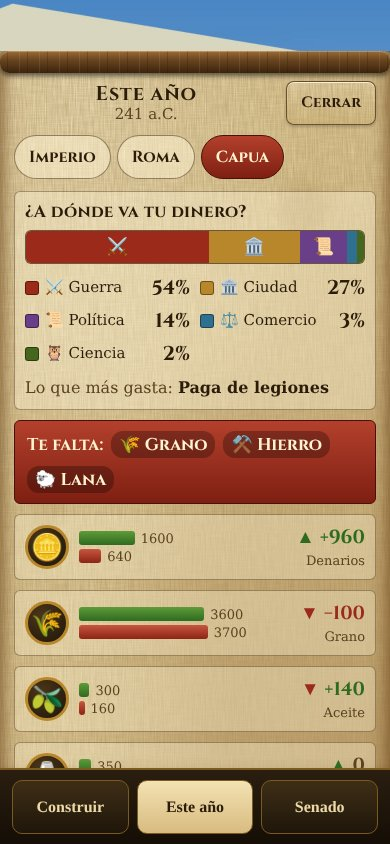
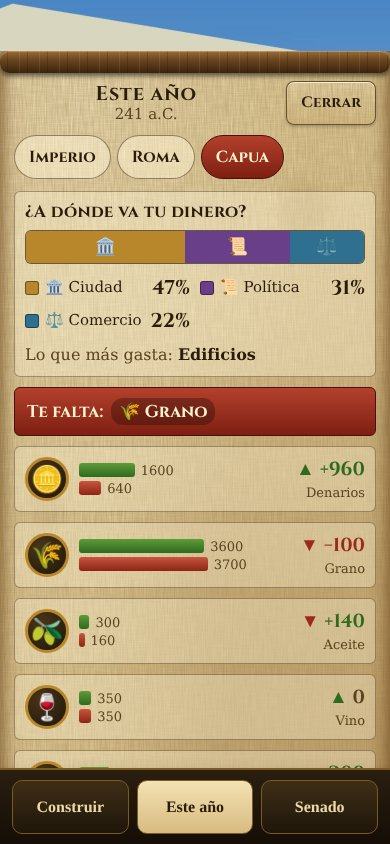
CE5: arreglos del revisor (cuentas por ciudad, faltas por ciudad, entradas raras) y parte cerrado
Claude-Session: https://claude.ai/code/session_01QiKC3AG6Vf8kY1xMEGRK9q

diff --git a/js/este-ano-ui.js b/js/este-ano-ui.js
@@ -11,9 +11,10 @@
     ciencia: ['🦉', 'Ciencia', '#46661f'], otros: ['🧺', 'Otros', '#7a6a50'], perdido: ['💨', 'Se pierde', '#555a5e'] };
   const RES = { denarios: '🪙', grano: '🌾', materiales: '🧱', hierro: '⚒', aceite: '🫒', vino: '🍷', verdura: '🥬', lana: '🐑' };
   const RNOM = { denarios: 'Denarios', grano: 'Grano', materiales: 'Materiales', hierro: 'Hierro', aceite: 'Aceite', vino: 'Vino', verdura: 'Verdura', lana: 'Lana' };
-  const icono = r => { const D = root.DATA; return (D && D.RES_ICON && D.RES_ICON[r]) || RES[r] || '📦'; };
-  const nomR = r => RNOM[r] || (r ? r[0].toUpperCase() + r.slice(1) : '');
-  const nomM = m => NOM[m] || m;
+  const hp = (o, k) => !!o && Object.prototype.hasOwnProperty.call(o, k);
+  const icono = r => { const D = root.DATA; return (D && D.RES_ICON && hp(D.RES_ICON, r) && D.RES_ICON[r]) || (hp(RES, r) && RES[r]) || '📦'; };
+  const nomR = r => (hp(RNOM, r) && RNOM[r]) || (r ? r[0].toUpperCase() + r.slice(1) : '');
+  const nomM = m => (hp(NOM, m) && NOM[m]) || m;
 
   const CSS = '' +
     '.ea-fondo{position:fixed;left:0;right:0;bottom:76px;top:auto;z-index:60;display:flex;justify-content:center;pointer-events:none;overflow:clip}' +
@@ -89,7 +90,7 @@
       '<div class="ea-apil" title="Coste"><div style="width:' + pb.toFixed(1) + '%;background:#b8862b">' + (pb > 12 ? '💰' : '') + '</div><div style="width:' + pi.toFixed(1) + '%;background:#2f6f8f">' + (pi > 12 ? '📜' : '') + '</div><div style="flex:1;background:#9b2a1a;color:#fff3d0;font:700 15px serif">' + (t.falta > 0 ? num(t.falta) : '') + '</div></div>' +
       '<div class="ea-ley"><div><i style="background:#b8862b"></i>Botín<b>' + num(t.cubre && t.cubre.botin) + '</b></div><div><i style="background:#2f6f8f"></i>Indemniz.<b>' + num(t.cubre && t.cubre.indemnizacion) + '</b></div>' +
       '<div><i style="background:#9b2a1a"></i>Falta<b>' + num(t.falta) + '</b></div><div>Coste<b>' + num(t.coste) + '</b></div></div>' +
-      (t.suspendido ? '<div class="ea-sello" style="margin-top:10px">Este año no hay tributo: lo paga el botín</div>' :
+      (!(t.coste > 0) ? '' : t.suspendido ? '<div class="ea-sello" style="margin-top:10px">Este año no hay tributo: lo paga el botín</div>' :
         '<div class="ea-acc"><button class="ea-btn" data-act="eatributo"' + (tr.posible === false ? ' disabled' : '') + '>Cobrar tributo · −' + num(Math.abs(tr.humor || 0)) + ' humor</button>' +
         '<button class="ea-btn" data-act="eacaja"' + (ca.alcanza === false ? ' disabled' : '') + '>Pagar de la caja · ' + num(ca.paga) + '</button></div>') +
       '<p class="ea-pie">Stipendium: la paga del soldado (Livio 4.59)</p></div>';
@@ -99,17 +100,19 @@
     cu = cu || {}; opts = opts || {};
     const amb = opts.ambito || 'imperio', nombres = opts.nombres || {};
     const ids = Object.keys(cu.ciudades || {}), lista = (amb === 'imperio' ? cu.imperio : (cu.ciudades || {})[amb]) || [];
-    const ad = cu.adonde || { total: 0, partes: [], caminos: [] }, cam = (ad.caminos || []).filter(c => c.pc > 0);
-    const gu = cu.guerra || { cuesta: 0, gana: 0, saldo: 0 };
+    const pcu = amb !== 'imperio' && cu.porCiudad && hp(cu.porCiudad, amb) ? cu.porCiudad[amb] : null;
+    const ad = (pcu && pcu.adonde) || cu.adonde || { total: 0, partes: [], caminos: [] }, cam = (ad.caminos || []).filter(c => c.pc > 0);
+    const faltan = amb === 'imperio' ? (cu.faltan || []) : lista.filter(f => f.saldo < 0).map(f => f.r);   // en una ciudad, lo que le falta a ella
+    const gu = (pcu && pcu.guerra) || cu.guerra || { cuesta: 0, gana: 0, saldo: 0 };
     return '<div class="ea-fondo"><div class="ea-hoja" role="dialog" aria-label="Este año"><div class="ea-asa"></div>' +
       '<div class="ea-cab"><div class="ea-tit">Este año<small>' + esc(opts.anioTexto || cu.anio || '') + '</small></div><button class="ea-btn" data-act="eacerrar">Cerrar</button></div>' +
       '<div class="ea-cuerpo"><div class="ea-fichas"><button class="ea-ficha' + (amb === 'imperio' ? ' on' : '') + '" data-act="eaambito" data-v="imperio">Imperio</button>' +
-      ids.map(id => '<button class="ea-ficha' + (amb === id ? ' on' : '') + '" data-act="eaambito" data-v="' + esc(id) + '">' + esc(nombres[id] || id) + '</button>').join('') + '</div>' +
+      ids.map(id => '<button class="ea-ficha' + (amb === id ? ' on' : '') + '" data-act="eaambito" data-v="' + esc(id) + '">' + esc(hp(nombres, id) && nombres[id] || id) + '</button>').join('') + '</div>' +
       '<div class="ea-card"><h3 class="ea-h">¿A dónde va tu dinero?</h3><div class="ea-apil">' +
-      cam.map(c => { const k = CAM[c.camino] || CAM.otros; return '<div style="width:' + c.pc + '%;background:' + k[2] + '">' + (c.pc >= 9 ? k[0] : '') + '</div>'; }).join('') + '</div>' +
-      '<div class="ea-ley">' + cam.map(c => { const k = CAM[c.camino] || CAM.otros; return '<div><i style="background:' + k[2] + '"></i>' + k[0] + ' ' + k[1] + '<b>' + Math.round(c.pc) + '%</b></div>'; }).join('') + '</div>' +
+      cam.map(c => { const k = (hp(CAM, c.camino) ? CAM[c.camino] : CAM.otros); return '<div style="width:' + c.pc + '%;background:' + k[2] + '">' + (c.pc >= 9 ? k[0] : '') + '</div>'; }).join('') + '</div>' +
+      '<div class="ea-ley">' + cam.map(c => { const k = (hp(CAM, c.camino) ? CAM[c.camino] : CAM.otros); return '<div><i style="background:' + k[2] + '"></i>' + k[0] + ' ' + k[1] + '<b>' + Math.round(c.pc) + '%</b></div>'; }).join('') + '</div>' +
       (ad.mayor ? '<p class="ea-frase">Lo que más gasta: <b>' + esc(nomM(ad.mayor.motivo || ad.mayor)) + '</b></p>' : (ad.partes && ad.partes[0] ? '<p class="ea-frase">Lo que más gasta: <b>' + esc(nomM(ad.partes[0].motivo)) + '</b></p>' : '')) + '</div>' +
-      (cu.faltan && cu.faltan.length ? '<div class="ea-faltan">Te falta: ' + cu.faltan.map(r => '<span>' + icono(r) + ' ' + esc(nomR(r)) + '</span>').join('') + '</div>' : '') +
+      (faltan.length ? '<div class="ea-faltan">Te falta: ' + faltan.map(r => '<span>' + icono(r) + ' ' + esc(nomR(r)) + '</span>').join('') + '</div>' : '') +
       filas(lista, opts.abierta) + tributo(opts.tributo) +
       '<div class="ea-card"><h3 class="ea-h">⚔ La guerra este año</h3><div class="ea-gu"><div><span>📉</span><b>' + num(gu.cuesta) + '</b><small>Cuesta</small></div><div><span>💰</span><b>' + num(gu.gana) + '</b><small>Gana</small></div>' +
       '<div><span>' + (gu.saldo >= 0 ? '▲' : '▼') + '</span><b class="' + (gu.saldo >= 0 ? 'ea-pos' : 'ea-neg') + '">' + sg(gu.saldo) + '</b><small>Saldo</small></div></div></div>' +

diff --git a/js/este-ano.js b/js/este-ano.js
@@ -18,6 +18,7 @@
   EA.CAMINOS = ['guerra', 'ciudad', 'comercio', 'politica', 'ciencia', 'otros', 'perdido'];
   EA.K = { pagaHombreAnio: 0.12, tributoPorCiudadano: 0.05, humorPorDenario: 0.004, humorMax: 15, plazos: { leve: 5, normal: 10, dura: 20 }, factor: { leve: 0.5, normal: 1, dura: 2 } };
   const IMP = '_imperio';
+  const VETADO = ['__proto__', 'constructor', 'prototype'];
   const fin = x => (typeof x === 'number' && isFinite(x)) ? x : 0;
   const pos = x => Math.max(0, fin(x));
   const own = (o, k) => Object.prototype.hasOwnProperty.call(o, k);
@@ -28,6 +29,7 @@
     if (!libro || !libro.c || !ciudad || !recurso) return libro;
     if (typeof cantidad !== 'number' || !isFinite(cantidad) || cantidad === 0) return libro;
     const m = motivo || 'otros';
+    if (VETADO.indexOf(ciudad) >= 0 || VETADO.indexOf(recurso) >= 0 || VETADO.indexOf(m) >= 0) return libro;
     const c = own(libro.c, ciudad) ? libro.c[ciudad] : (libro.c[ciudad] = {});
     const r = own(c, recurso) ? c[recurso] : (c[recurso] = { entra: {}, sale: {} });
     const lado = cantidad > 0 ? r.entra : r.sale;
@@ -82,11 +84,11 @@
     return pc;
   }
 
-  EA.adondeVa = function (libro, recurso) {
+  EA.adondeVa = function (libro, recurso, ciudad) {
     const rec = recurso || 'denarios';
-    const suma = sumar(libro, libro && libro.c ? Object.keys(libro.c) : []);
+    const suma = sumar(libro, ciudad ? [ciudad] : (libro && libro.c ? Object.keys(libro.c) : []));
     const sale = suma[rec] ? suma[rec].sale : {};
-    const mot = Object.keys(sale).filter(m => sale[m] > 0).map(m => ({ motivo: m, n: sale[m] })).sort((a, b) => b.n - a.n || (a.motivo < b.motivo ? -1 : 1));
+    const mot = Object.keys(sale).filter(m => Math.round(sale[m]) > 0).map(m => ({ motivo: m, n: sale[m] })).sort((a, b) => b.n - a.n || (a.motivo < b.motivo ? -1 : 1));
     const tot = mot.reduce((a, b) => a + b.n, 0);
     const pcs = porCien(mot.map(x => x.n));
     const partes = mot.map((x, i) => ({ motivo: x.motivo, n: Math.round(x.n), pc: pcs[i], camino: own(EA.CAMINO, x.motivo) ? EA.CAMINO[x.motivo] : 'otros' }));
@@ -97,8 +99,8 @@
     return { total: Math.round(tot), partes, caminos, mayor: partes[0] || null };
   };
 
-  EA.balanceGuerra = function (libro) {
-    const d = sumar(libro, libro && libro.c ? Object.keys(libro.c) : []).denarios || { entra: {}, sale: {} };
+  EA.balanceGuerra = function (libro, ciudad) {
+    const d = sumar(libro, ciudad ? [ciudad] : (libro && libro.c ? Object.keys(libro.c) : [])).denarios || { entra: {}, sale: {} };
     const cuesta = (d.sale.legiones || 0) + (d.sale.tributoGuerra || 0) + (d.sale.indemnizacion || 0);
     const gana = (d.entra.botin || 0) + (d.entra.indemnizacion || 0);
     return { cuesta: Math.round(cuesta), gana: Math.round(gana), saldo: Math.round(gana - cuesta) };
@@ -109,8 +111,10 @@
     const idsAnt = anterior && anterior.c ? Object.keys(anterior.c) : [];
     const imperio = filas(sumar(libro, ids), anterior ? sumar(anterior, idsAnt) : null);
     const ciudades = {};
+    const porCiudad = {};
+    for (const id of ids) if (id !== IMP) { porCiudad[id] = { adonde: EA.adondeVa(libro, 'denarios', id), guerra: EA.balanceGuerra(libro, id) }; }
     for (const id of ids) if (id !== IMP) ciudades[id] = filas(sumar(libro, [id]), anterior ? sumar(anterior, [id]) : null);
-    return { anio: libro ? libro.anio : null, imperio, ciudades, faltan: imperio.filter(f => f.saldo < 0).map(f => f.r), adonde: EA.adondeVa(libro), guerra: EA.balanceGuerra(libro) };
+    return { anio: libro ? libro.anio : null, imperio, ciudades, porCiudad, faltan: imperio.filter(f => f.saldo < 0).map(f => f.r), adonde: EA.adondeVa(libro), guerra: EA.balanceGuerra(libro) };
   };
 
   EA.registro = function (anio) { return { v: 1, actual: EA.nuevoLibro(anio), anterior: null }; };
@@ -118,7 +122,7 @@
   const libroOk = l => l && typeof l === 'object' && l.c && typeof l.c === 'object' && !Array.isArray(l.c);
   EA.migrar = function (s, anio) {
     const e = s.esteAno;
-    if (e && typeof e === 'object' && e.v === 1 && libroOk(e.actual) && (e.anterior === null || libroOk(e.anterior))) return false;
+    if (e && typeof e === 'object' && e.v === 1 && libroOk(e.actual) && (e.anterior === null || e.anterior === undefined || libroOk(e.anterior))) { const ch = e.anterior === undefined; if (ch) e.anterior = null; return ch; }
     s.esteAno = EA.registro(anio); return true;
   };
 
@@ -144,10 +148,10 @@
     const K = EA.K, d = own(K.plazos, o.dureza) ? o.dureza : 'normal';
     const rq = pos(o.riquezaAnual), an = Math.min(Math.max(fin(o.anios) || 1, 1), 10);
     const tot = Math.round(rq * K.factor[d] * an), plazos = K.plazos[d];
-    return { total: tot, plazos, cuota: Math.ceil(tot / plazos), inicio: o.inicio, pagado: 0 };
+    return { total: tot, plazos, cuota: Math.ceil(tot / plazos), inicio: isFinite(o.inicio) && typeof o.inicio === 'number' ? o.inicio : 0, pagado: 0 };
   };
   EA.cuotaAnio = function (plan, anio) {
-    if (!plan || !(fin(anio) === anio)) return 0;
+    if (!plan || !(fin(anio) === anio) || !isFinite(plan.inicio) || !isFinite(plan.plazos) || typeof plan.inicio !== 'number') return 0;
     const resta = Math.max(0, fin(plan.total) - fin(plan.pagado));
     if (anio < plan.inicio || anio > plan.inicio + plan.plazos - 1 || resta <= 0) return 0;
     return anio === plan.inicio + plan.plazos - 1 ? resta : Math.min(plan.cuota, resta);

diff --git a/gobierno/partes/2026-11-24-CE5.md b/gobierno/partes/2026-11-24-CE5.md
@@ -8,8 +8,10 @@ la guerra. Por ciudad o del Imperio entero.
 **Archivos**: `js/este-ano.js` (reglas, `window.ESTEANO`), `js/este-ano-ui.js` (pantalla, `window.ESTEANO_UI`),
 `test/este-ano.test.mjs`, banco `gobierno/maquetas/ciudad-este-ano/`, capturas `capturas-tarea/CE5-*.jpg`,
 ficha `historia/CE5-tributo.md`.
-**Jueces**: juez de área cerebro APTO 6/6; `test/este-ano.test.mjs` OK; banco sin errores de consola.
-**Cuentas**: ver cifra de gasto al pie.
+**Jueces**: juez de área cerebro APTO 6/6 (y APTO solo lógica tras los arreglos del revisor); `test/este-ano.test.mjs`
+OK 12; banco sin errores de consola; capturas vistas por el director (se arregló «Te falta» por ciudad).
+**Cuentas**: presupuesto 1,25 M · gastado 1,52 M (+22 %) · Opus 1,04 M, Sonnet 0,48 M. Se fue en la dirección (50
+pasos: leer la economía y mirar capturas). Ahorro: dar al director el contrato ya escrito en el encargo del vigía.
 **Dictamen histórico**: APTO CON NOTAS. Histórico: *stipendium* desde el 406 (Livio 4.59–60); *tributum* para la
 guerra, devuelto a veces (Livio 39.7.5) y suspendido en el 167 (Plutarco, *Em. Paulo* 38; Cicerón, *De off.* 2.76);
 indemnizaciones de Cartago (Polibio 1.62–63; 15.18). Licencia: cifras, humor, plazos 5/10/20 años, «denarios».
